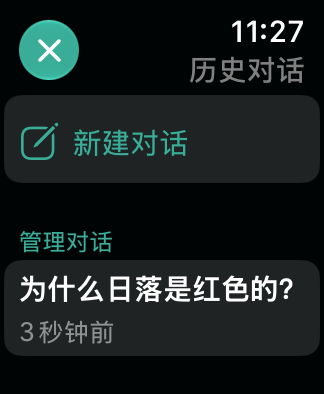
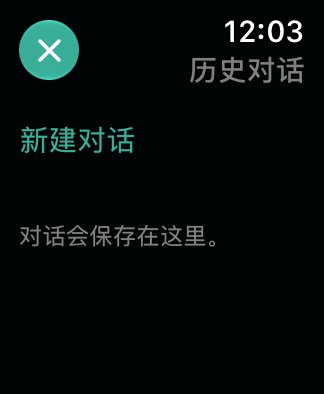
Use one compact glass composer and a plain new chat action

diff --git a/Watch/ArcWatchApp.swift b/Watch/ArcWatchApp.swift
@@ -161,13 +161,27 @@ struct WatchChatView: View {
     }
 
     private var composer: some View {
-        HStack(spacing: 3) {
-            TextField("输入消息", text: $draft)
+        let canSend = !draft.trimmingCharacters(in: .whitespacesAndNewlines).isEmpty
+        return HStack(spacing: 0) {
+            Text(verbatim: draft.isEmpty ? "输入消息" : draft)
                 .font(.footnote)
-                .textFieldStyle(.plain)
-                .frame(maxWidth: .infinity, alignment: .leading)
-                .clipShape(Capsule())
-                .accessibilityLabel("输入消息")
+                .foregroundStyle(draft.isEmpty ? .secondary : .primary)
+                .lineLimit(1)
+                .padding(.leading, 12)
+                .frame(maxWidth: .infinity, minHeight: 32, alignment: .leading)
+                .accessibilityHidden(true)
+                .overlay {
+                    // Keep the bound system editor and its draft, while the shared bar draws the field.
+                    TextField("输入消息", text: $draft)
+                        .textFieldStyle(.plain)
+                        .frame(maxWidth: .infinity, maxHeight: .infinity)
+                        .overlay {
+                            Rectangle().blendMode(.destinationOut).allowsHitTesting(false)
+                        }
+                        .compositingGroup()
+                        .contentShape(Rectangle())
+                        .accessibilityLabel("输入消息")
+                }
             Button {
                 if store.isSending {
                     store.cancel()
@@ -183,16 +197,17 @@ struct WatchChatView: View {
             } label: {
                 Image(systemName: store.isSending ? "stop.fill" : "arrow.up")
                     .font(.system(size: store.isSending ? 11 : 14, weight: .bold))
-                    .frame(width: 14, height: 14)
+                    .foregroundStyle(store.isSending || canSend ? store.watchAccent : Color.secondary)
+                    .frame(width: 34, height: 32)
+                    .contentShape(Rectangle())
             }
-            .watchSendStyle()
-            .tint(store.watchAccent)
-            .frame(width: 38, height: 40)
-            .disabled(!store.isSending && draft.trimmingCharacters(in: .whitespacesAndNewlines).isEmpty)
+            .disabled(!store.isSending && !canSend)
             .accessibilityLabel(store.isSending ? "停止回复" : "发送消息")
         }
+        .buttonStyle(.plain)
+        .frame(height: 32)
+        .background { Color.clear.frame(height: 28).watchBarSurface() }
         .padding(.horizontal, 3)
-        .padding(.top, 2)
     }
 }
 
@@ -225,12 +240,5 @@ private extension View {
     func watchBarSurface() -> some View {
         if #available(watchOS 26, *) { glassEffect(.regular.interactive(), in: .capsule) }
         else { background(.regularMaterial, in: Capsule()) }
-    }
-
-    @ViewBuilder
-    func watchSendStyle() -> some View {
-        let button = self.buttonBorderShape(.circle).controlSize(.mini)
-        if #available(watchOS 26, *) { button.buttonStyle(.glassProminent) }
-        else { button.buttonStyle(.borderedProminent) }
     }
 }

diff --git a/Watch/WatchPanels.swift b/Watch/WatchPanels.swift
@@ -59,9 +59,15 @@ struct WatchHistory: View {
                 store.newChat()
                 didSelect()
             } label: {
-                Label("新建对话", systemImage: "square.and.pencil")
+                Text("新建对话")
                     .foregroundStyle(store.watchAccent)
+                    .padding(.horizontal, 8)
+                    .frame(maxWidth: .infinity, minHeight: 44, alignment: .leading)
+                    .contentShape(Rectangle())
             }
+            .buttonStyle(.plain)
+            .listRowInsets(EdgeInsets())
+            .listRowBackground(Color.clear)
             if store.conversations.isEmpty {
                 Text("对话会保存在这里。")
                     .font(.footnote)

diff --git a/README.md b/README.md
@@ -4,7 +4,7 @@
 
 <p>
   <img src="Docs/watch-home.png" width="162" alt="40 毫米 Apple Watch 的新对话界面">
-  <img src="Docs/watch-history.png" width="162" alt="手表上的历史对话，含一条示例记录">
+  <img src="Docs/watch-history.png" width="162" alt="手表历史页中的新建对话操作">
   <img src="Docs/watch-settings.png" width="162" alt="手表设置中的模型与 Markdown 开关">
 </p>
 
@@ -18,7 +18,7 @@
 
 - 聊天页顶部是一条紧凑的横向工具栏，从左到右是历史、联网搜索、思考和设置。在 watchOS 26 及以上使用系统 Liquid Glass。
 - 聊天页隐藏时间，为正文腾出空间。点历史可以新建或删除对话。每次冷启动进入空白新对话，发送第一条消息后才计入历史。
-- 底部输入框调用手表系统输入面板，支持设备和语言可用的听写、手写或键盘。右下角发送，等待回复时可停止。
+- 底部是一条 28 点高的输入栏。点左侧调用手表系统输入面板，可使用设备和语言支持的听写、手写或键盘。点右侧箭头发送，等待回复时可停止。
 - 用户消息显示为右对齐气泡，AI 回复直接排在正文里。Markdown 支持标题、列表、引用、代码块、表格和链接，可在设置中切换为原文。
 - 两端均可设置显示模式及主题色。iPhone 提供完整选色器，手表提供预设和色相调节。手表浅色模式应用于聊天画布及应用界面，系统输入面板和状态栏由 watchOS 管理。
 
